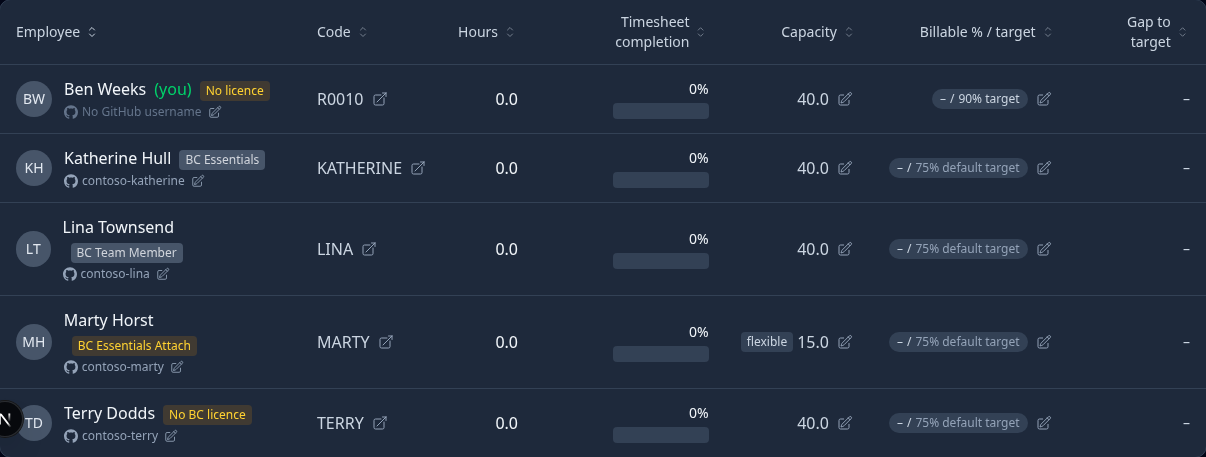
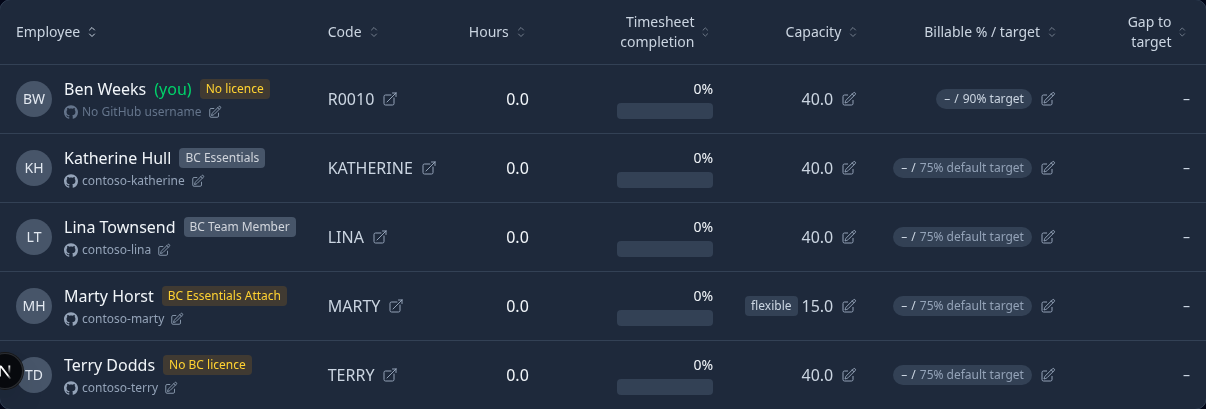
fix: keep a team member's name and licence tag on one line

diff --git a/src/components/team/TeamTable.tsx b/src/components/team/TeamTable.tsx
@@ -334,7 +334,8 @@ export function TeamTable({
                       </div>
                     )}
                     <div>
-                      <p className="text-dark-100 font-medium">
+                      {/* Name, "(you)" and licence tag on one line: the column widens rather than wrap */}
+                      <p className="text-dark-100 flex items-center gap-2 font-medium whitespace-nowrap">
                         {onSelect ? (
                           <button
                             type="button"
@@ -347,13 +348,11 @@ export function TeamTable({
                         ) : (
                           member.name
                         )}
-                        {member.isCurrentUser && (
-                          <span className="text-knowall-green ml-2">(you)</span>
-                        )}
+                        {member.isCurrentUser && <span className="text-knowall-green">(you)</span>}
                         {licenceTags?.[member.id] && (
                           <span
                             className={cn(
-                              'ml-2 inline-block rounded px-1.5 py-0.5 align-middle text-xs font-normal whitespace-nowrap',
+                              'rounded px-1.5 py-0.5 text-xs font-normal',
                               licenceTags[member.id].warn
                                 ? 'bg-amber-500/15 text-amber-300'
                                 : 'bg-dark-600 text-gray-300'
